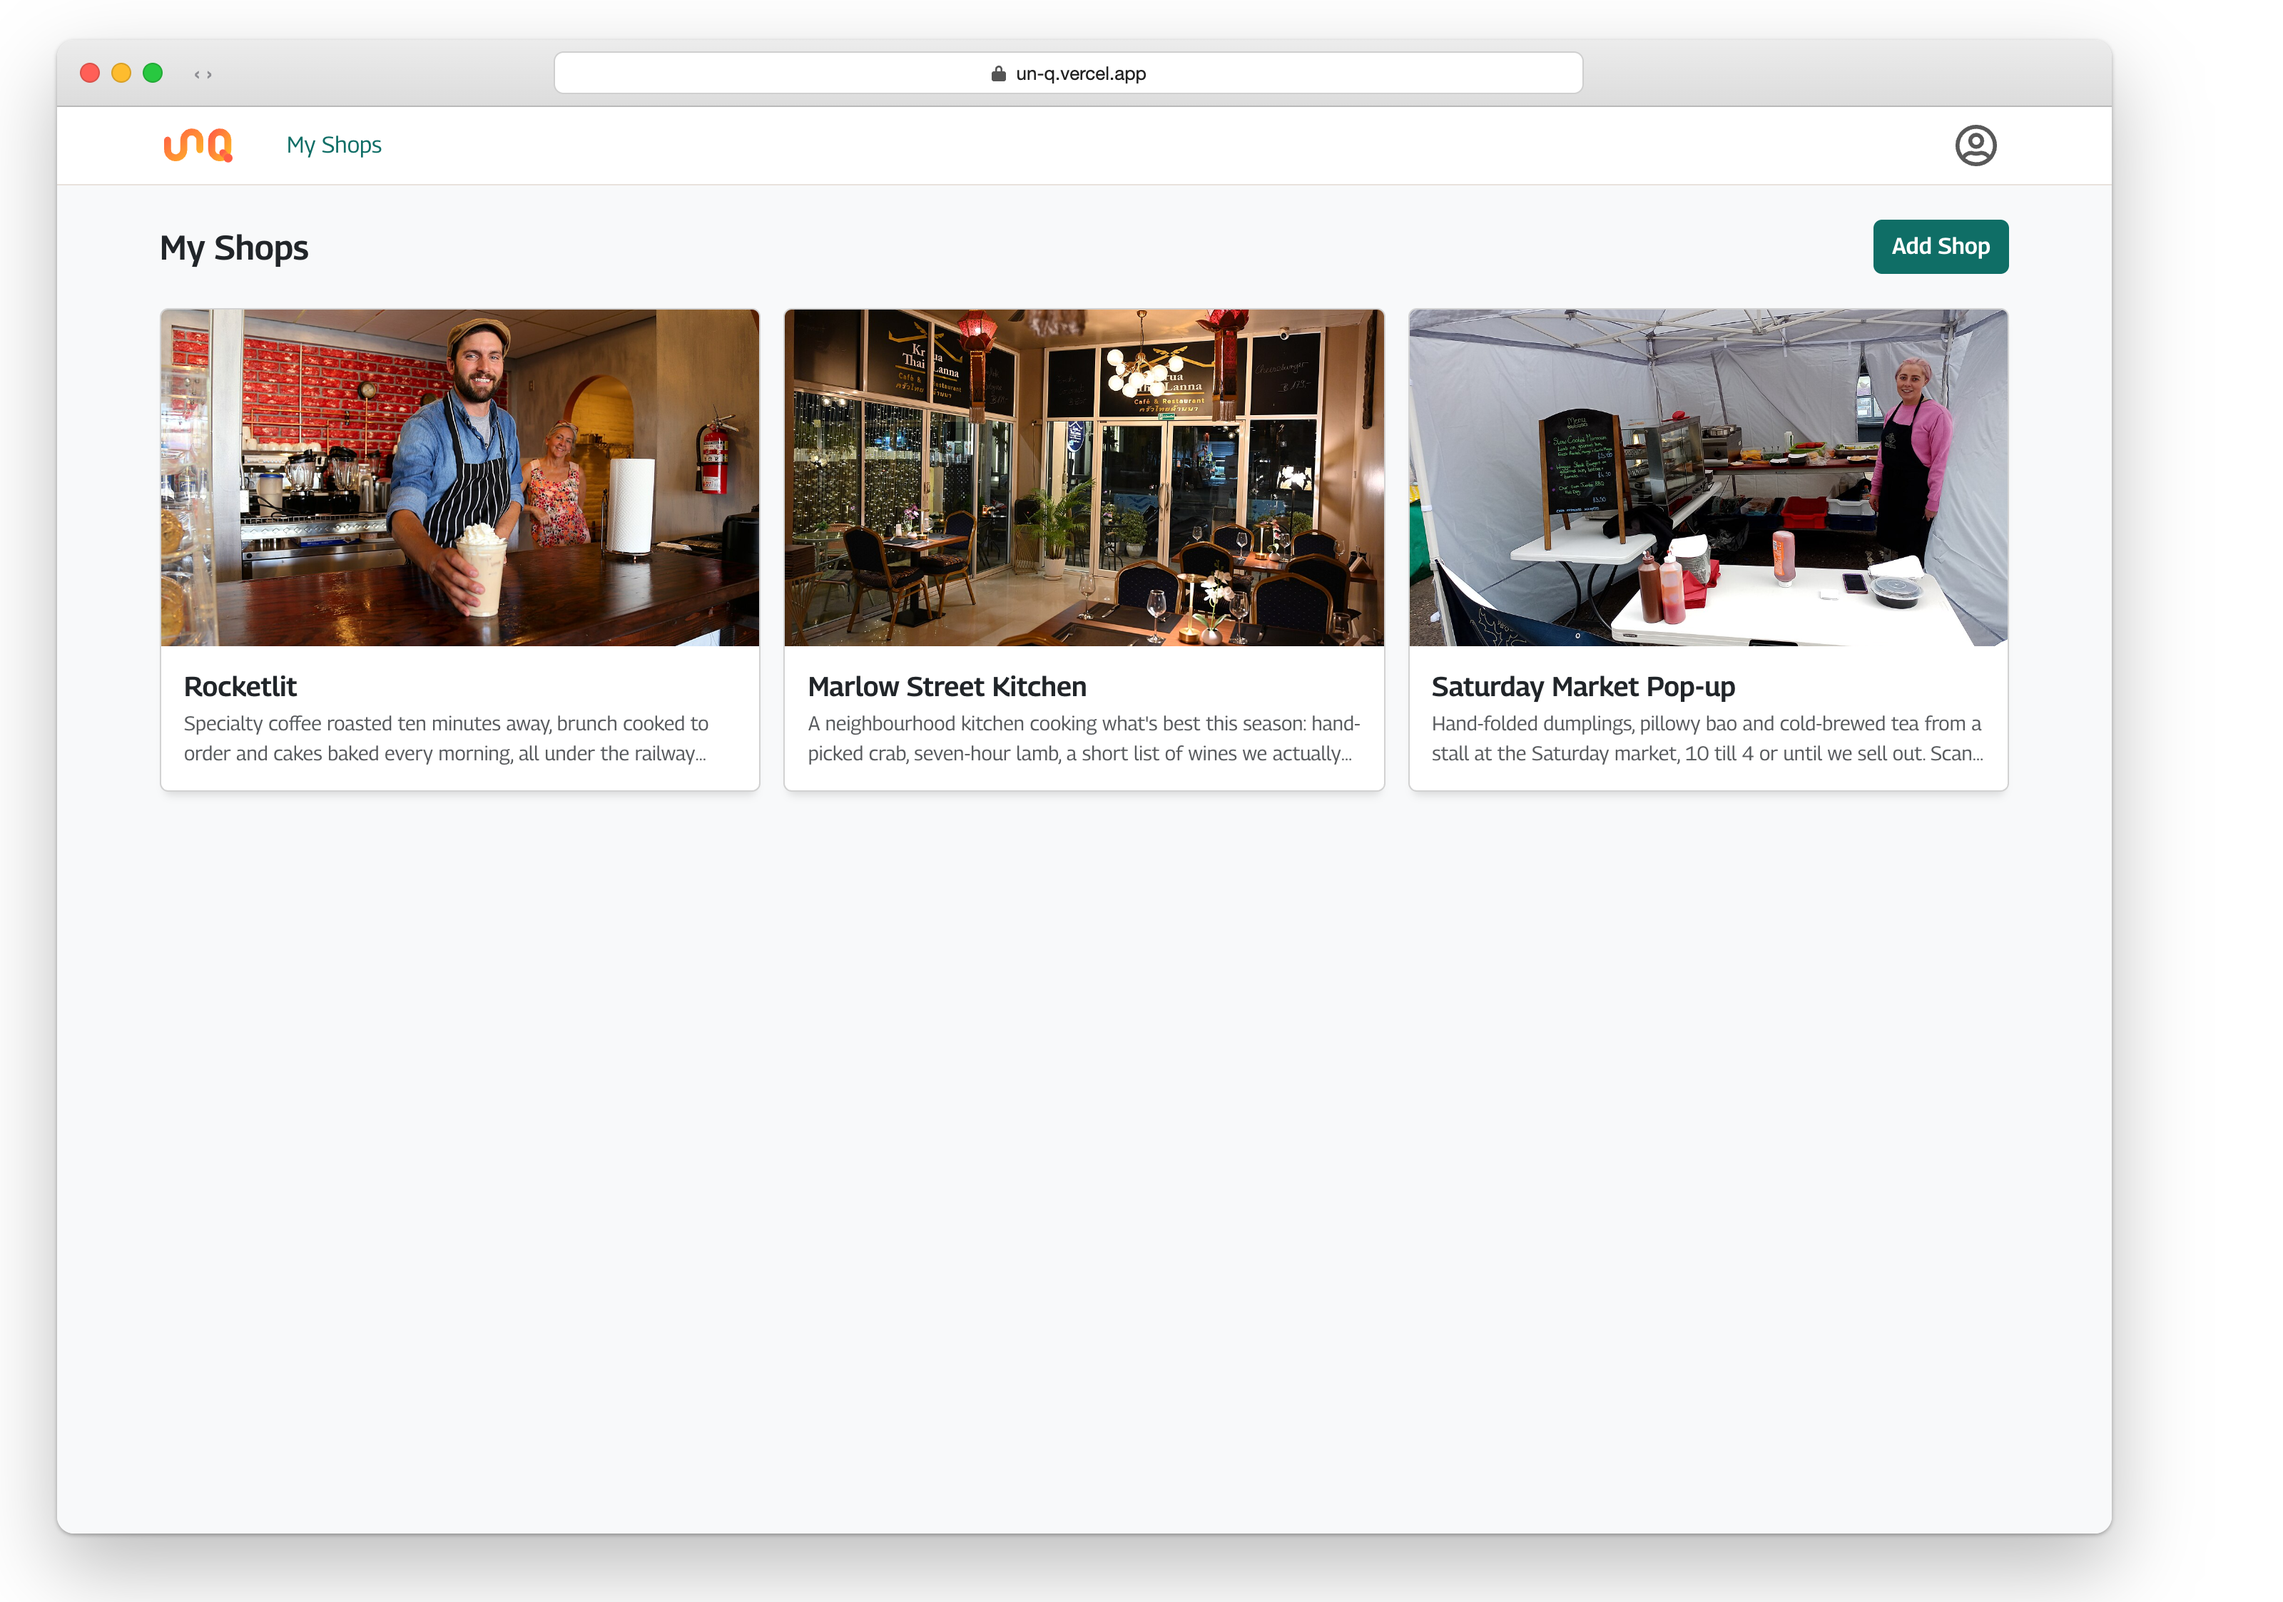
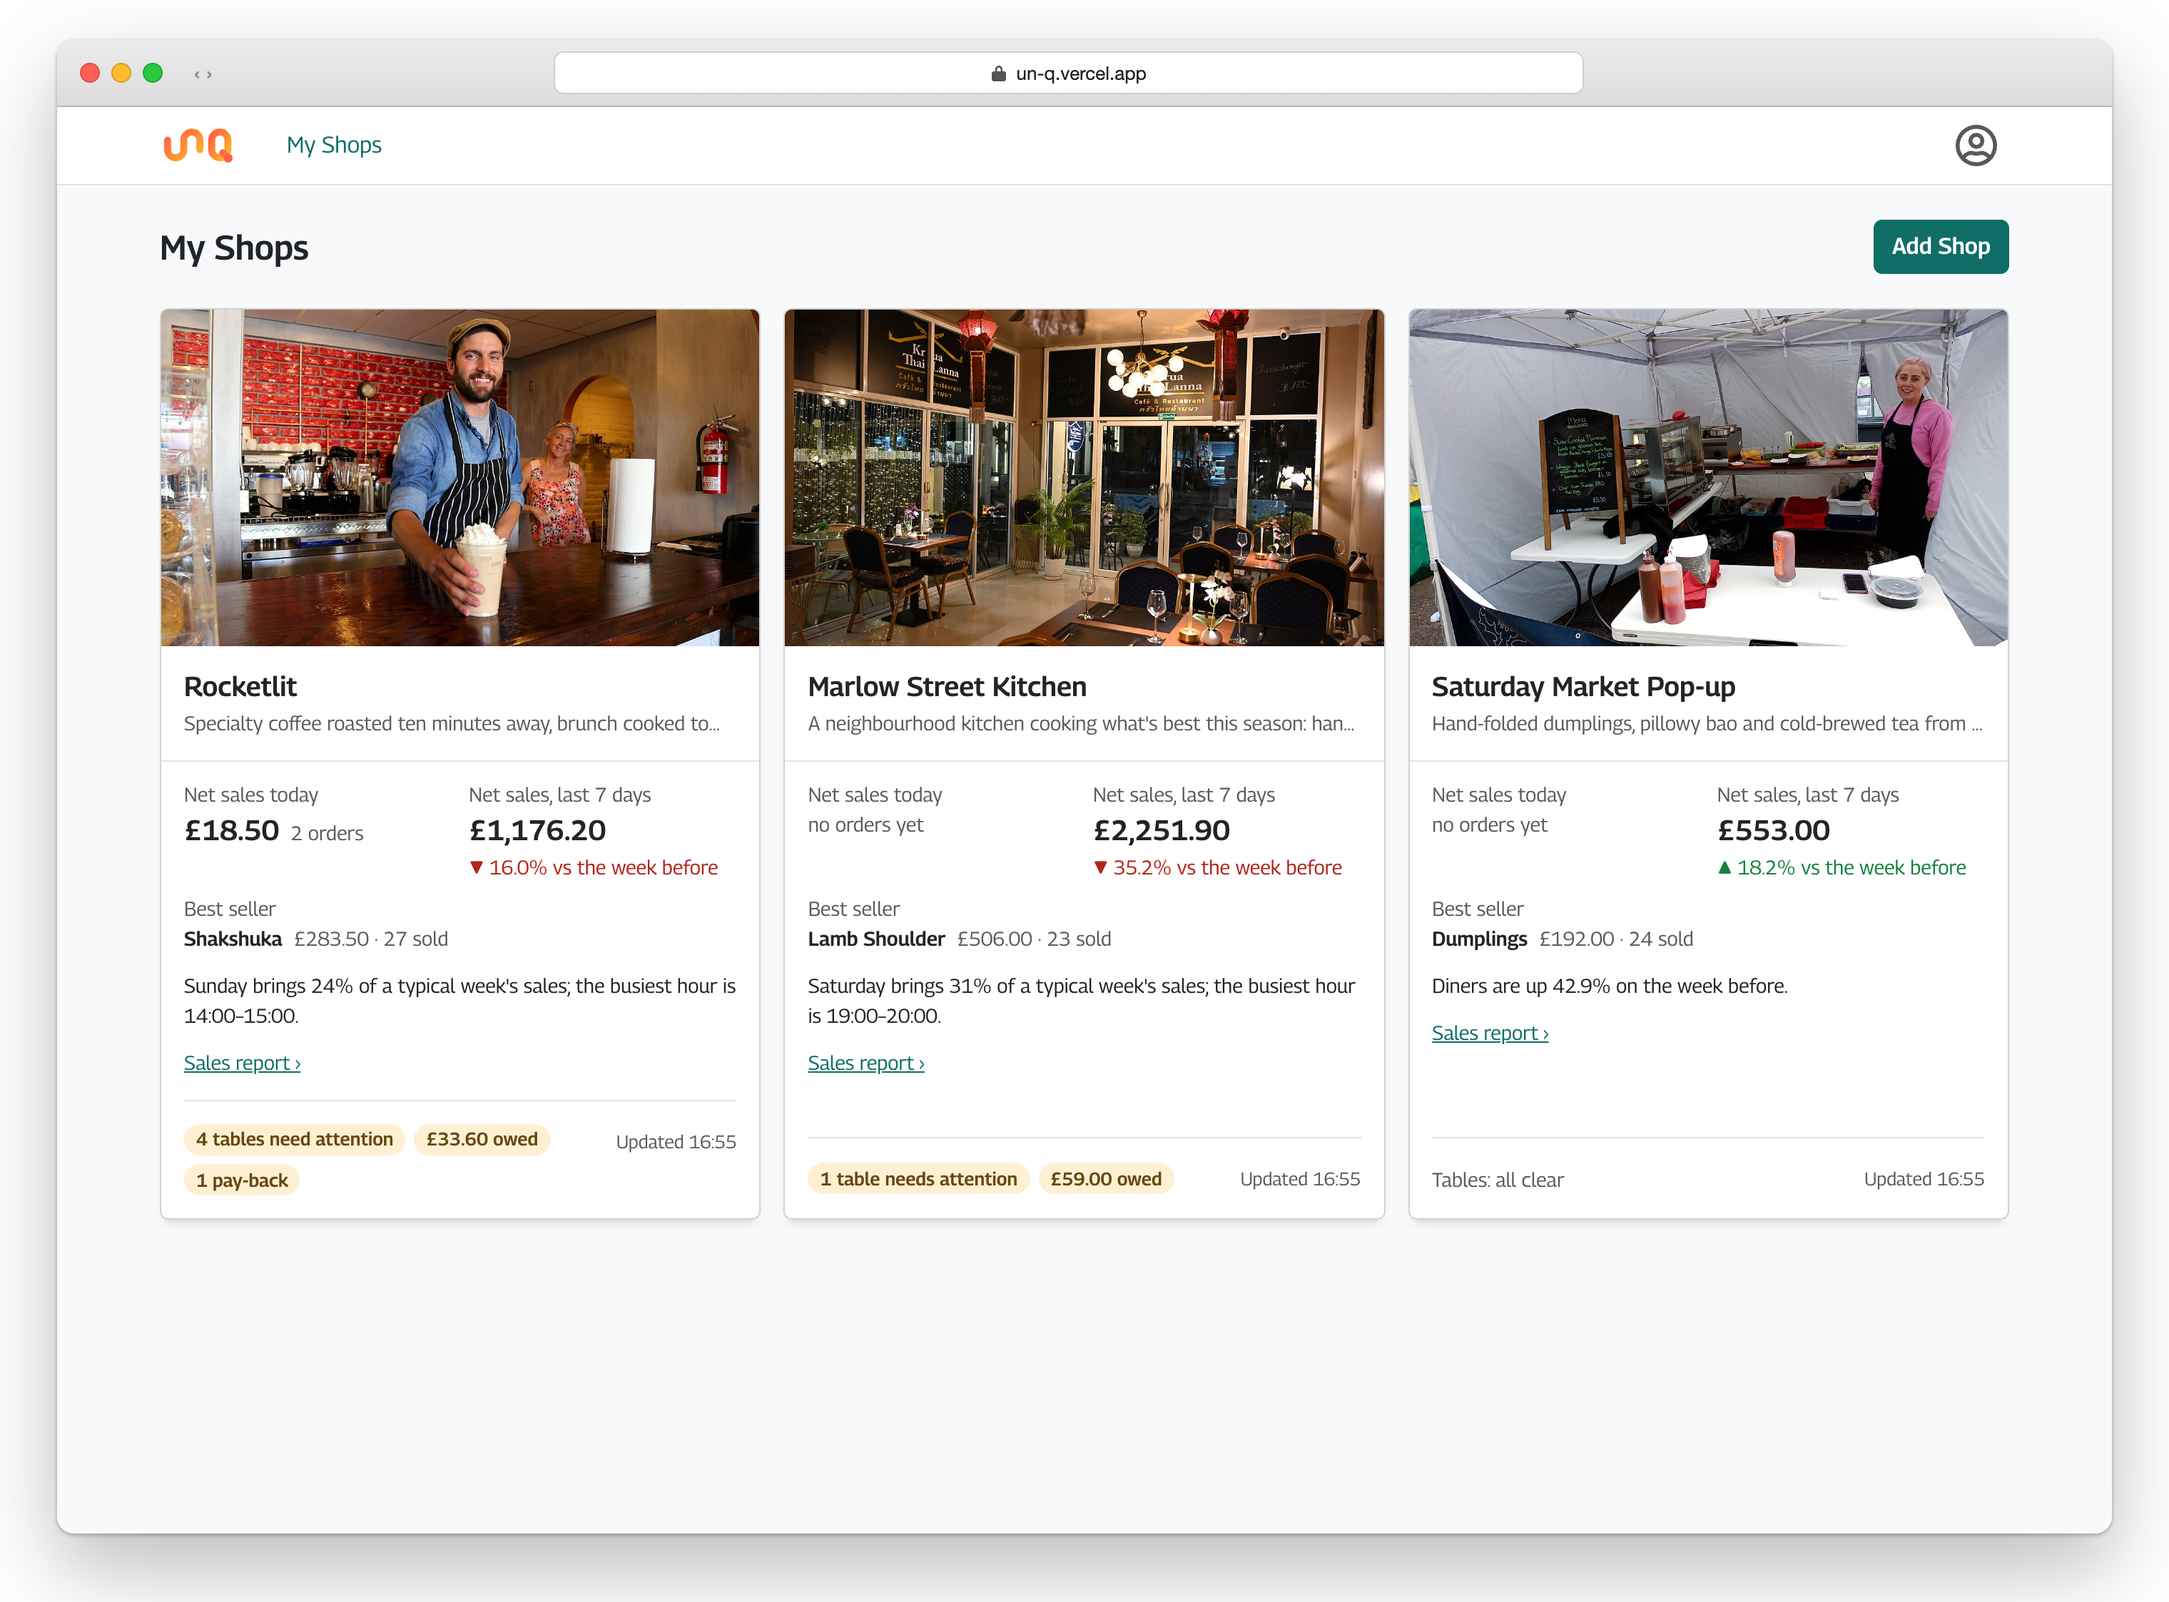
chore: release 2.3.0
Each shop at a glance on My Shops, and the demo's data rewritten every
night. Needs the API at 2.3.0; nothing changes on the host. Version,
badge and changelog; the contract fixture refreshed from the API at
2.3.0 (49 paths, unchanged but the version); the My Shops screenshot
retaken from the live demo and shown on the README.

diff --git a/README.md b/README.md
@@ -6,7 +6,7 @@ React 19 · TypeScript 6 · Vite 8 · Redux Toolkit · React Router 7 · React-B
 
 [![CI](https://github.com/Nando-C/UnQ-FE/actions/workflows/ci.yml/badge.svg)](https://github.com/Nando-C/UnQ-FE/actions/workflows/ci.yml)
 [![Licence: MIT](https://img.shields.io/badge/licence-MIT-635bff)](./LICENSE)
-[![Version 2.2.0](https://img.shields.io/badge/version-2.2.0-0F6E66)](./CHANGELOG.md)
+[![Version 2.3.0](https://img.shields.io/badge/version-2.3.0-0F6E66)](./CHANGELOG.md)
 
 <p>
   <img src="docs/images/menu.png" alt="A table's menu on a phone: Rocketlit's dishes with photos, descriptions, prices and Add buttons, one item marked sold out" height="520">
@@ -24,6 +24,8 @@ The demo runs at [un-q.vercel.app](https://un-q.vercel.app). Its API sleeps on a
 Adding an item asks you to sign in. Create an account, sign in with Google, or use the demo diner, `frank@mail.com` with the password `UnqTester1`. Pay by card with Stripe's test card `4242 4242 4242 4242`, any future expiry and any CVC (`4000 0025 0000 3155` asks for a bank check first, `4000 0000 0000 0002` is declined). PayPal runs against its sandbox and needs a sandbox buyer account.
 
 **As the venue, on a laptop.** Sign in as `manager@mail.com` with the password `UnqManager1`. Three venues are yours, with ninety days of payments behind them. Each card shows the venue at a glance: today so far, the last seven days against the seven before, the week's best seller, a highlight, and what its tables need right now. Open a venue's Sales tab for the trend, the busy hours, what the menu earns, refunds by cause and the highlights written from those figures. Rocketlit's tables show every state at once: one being ordered at, a selection held too long, a sold-out item in a cart, a payment the provider is still holding, a diner still to be paid back, and a deleted table whose last cart can still be refunded.
+
+<img src="docs/images/my-shops.png" alt="My Shops on a desktop: three venue cards, each with its photo and name, net sales today and over the last seven days with the change on the week before, the best seller, a highlight, and a footer with what its tables need and when the card was updated" width="720">
 
 <img src="docs/images/sales.png" alt="The Sales tab on a desktop: the period controls, the headline figures with their change on the period before, and the trend of net sales with a dashed line for the period before and a 7-day average" width="720">
 

diff --git a/CHANGELOG.md b/CHANGELOG.md
@@ -6,6 +6,10 @@ UnQ ships as two repositories that release together. This front end at `x.y.*` n
 
 ## [Unreleased]
 
+## [2.3.0] - 2026-10-15
+
+Each shop at a glance on My Shops, and the demo's data rewritten every night. Needs the API at 2.3.0. Nothing changes on the host.
+
 ### Added
 
 - Each shop's card on My Shops shows the shop at a glance, from the sales report over a fixed week and the tables' status, refreshed every minute while the page is visible: net sales today (with the orders) and over the last seven days against the seven before, the week's best seller with its revenue and units, the first highlight the Sales tab would write that the card doesn't already say, and, as the card's footer, what the tables need right now (tables needing attention, what is owed at the open carts, diners to pay back) or "Tables: all clear", and when the card was last updated. The figures link to the Sales tab on the same week, the footer to the tables. A refresh that fails keeps the figures shown and says so. [docs/manager-tools.md](./docs/manager-tools.md#my-shops).
